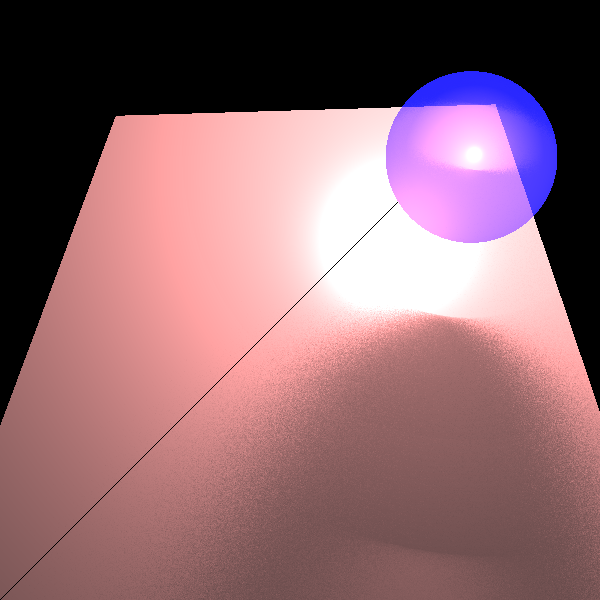
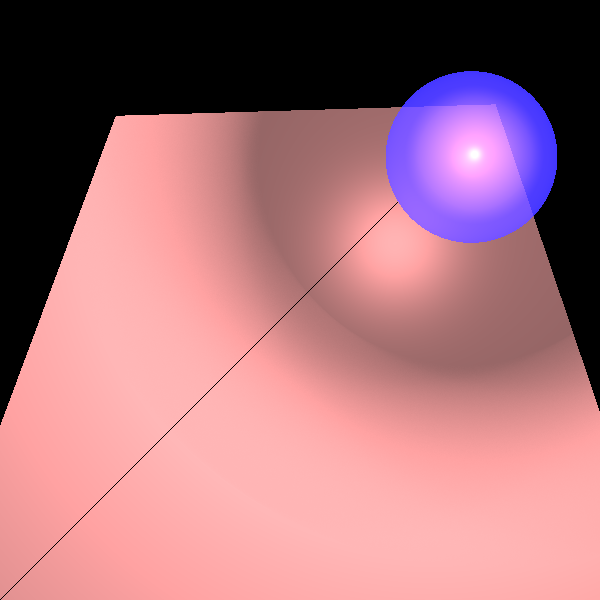
push

diff --git a/src/unittests/ReflectionRefractionTests.java b/src/unittests/ReflectionRefractionTests.java
@@ -106,8 +106,9 @@ public class ReflectionRefractionTests {
 						.setEmmission(new Color(java.awt.Color.BLUE)) //
 						.setMaterial(new Material().setKD(0.2).setKS(0.2).setnShininess(30).setkT(0.6)));
 
-		scene.lights.add(new SpotLight(new Color(700, 400, 400), new Point3D(60, 50, 0),new Vector(0,0,-1)) //
-				.setKl(4E-5).setKq(2E-7).setRadius(100).setBeamsNum(10));
+		scene.lights.add(new PointLight(new Color(700, 400, 400), new Point3D(60, 50,
+				0)/* ,new Vector(0,0,-1) */) //
+				.setKl(4E-5).setKq(2E-7).setRadius(9).setBeamsNum(500));
 
 		ImageWriter imageWriter = new ImageWriter("refractionShadow", 600, 600);
 		Render render = new Render() //

diff --git a/src/primitives/Vector.java b/src/primitives/Vector.java
@@ -63,11 +63,11 @@ public class Vector {
 	public Vector getOrthogonal()
 	{
 		try {
-		return new Vector(head.getZ(), 0 , -head.getX()).normalized();
+		return new Vector(head.getZ(), 0 , -head.getX()).normalize();
 		}
 		catch(IllegalArgumentException ex)
 		{
-			return new Vector(head.getY(), -head.getX() , 0).normalized();
+			return new Vector(head.getY(), -head.getX() , 0).normalize();
 		}
 	}
 	

diff --git a/src/primitives/Point3D.java b/src/primitives/Point3D.java
@@ -27,6 +27,12 @@ public class Point3D {
 		this.z = new Coordinate(z);
 	}
 
+	public Point3D(Point3D other) {
+		this.x = new Coordinate(other.getX());
+		this.y = new Coordinate(other.getY());
+		this.z = new Coordinate(other.getZ());
+	}
+	
 	/**
 	 * Point3D constructor receiving coordinates.
 	 * 
